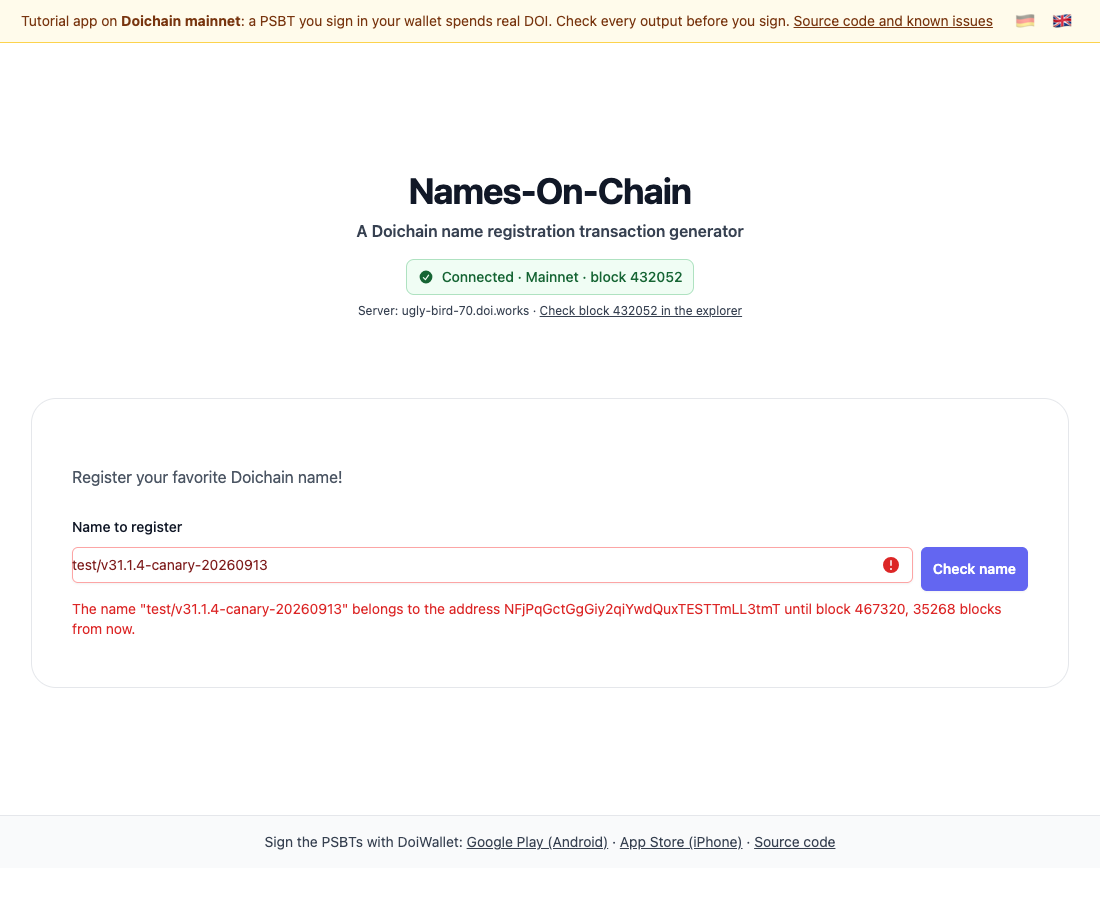
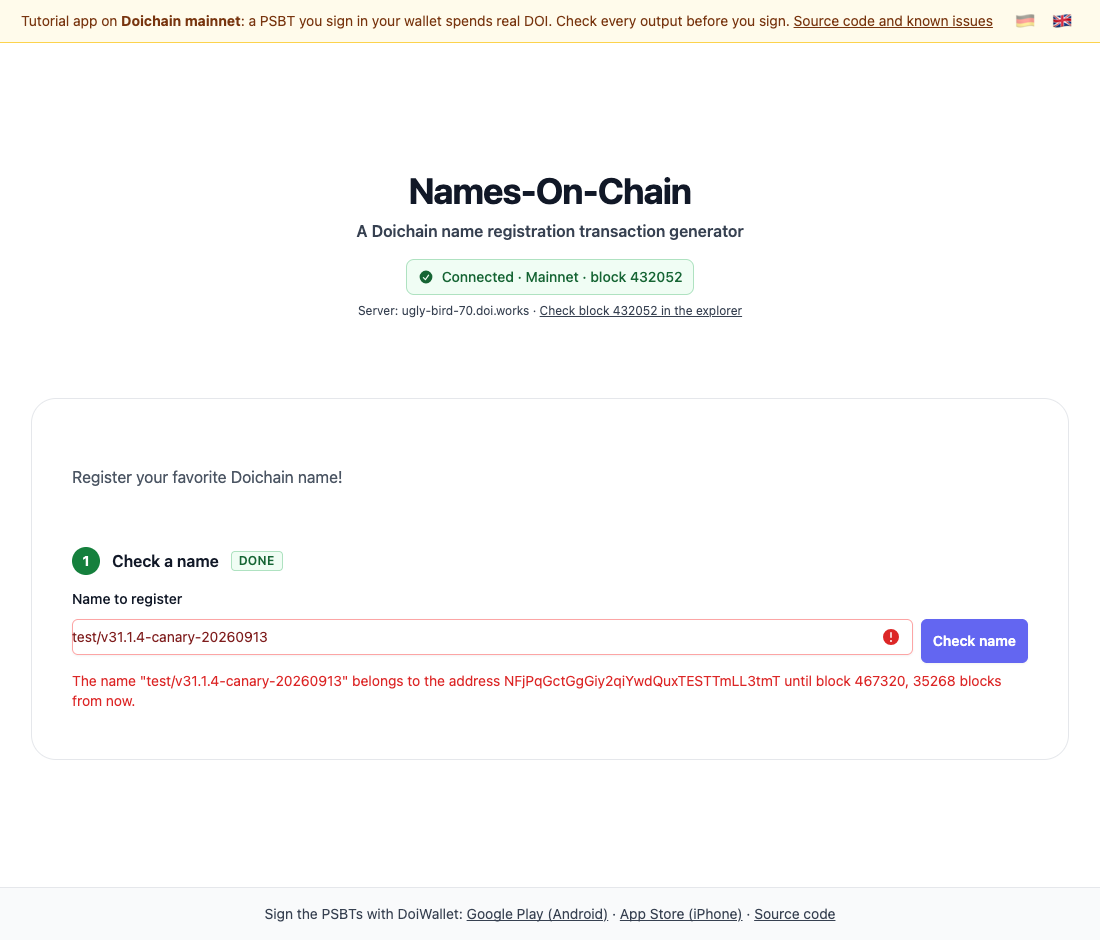
feat: the page counts the steps it asks for
Every field stood on the page at once, and nothing said what comes
first. A numbered step now carries each part of the way, with a mark
saying whether it is answered or the one to do next. Lesson 1 has the
first step; the later lessons add theirs (Doichain/names-on-chain#11).

The fields stay where they are and stay reachable: the steps guide, they
do not lock anything.

diff --git a/src/lib/components/pricing.svelte b/src/lib/components/pricing.svelte
@@ -1,5 +1,6 @@
 <script>
 	import NameField from '$lib/components/NameField.svelte';
+	import Step from '$lib/components/Step.svelte';
 	import ConnectionStatus from '$lib/components/ConnectionStatus.svelte';
 	import { getConnectionStatus } from '../doichain/connectElectrum.js';
 	import { checkName } from '$lib/doichain/nameValidation.js';
@@ -56,6 +57,9 @@
 
 	/** The name in the field has not been asked about yet */
 	$: needsCheck = Boolean(name) && name !== checkedName && !isCheckingName;
+
+	/** The first step is answered once the name in the field has an answer */
+	$: nameStep = name && name === checkedName ? 'done' : 'next';
 
 	/**
 	 * Takes the answer to a check and puts it on screen, if it still belongs to
@@ -125,46 +129,48 @@
 				<p class="mt-6 text-base leading-7 text-gray-600">{$_('name.intro')}</p>
 				{#if isConnected}
 					<p>&nbsp;</p>
-					<NameField
-						bind:value={name}
-						checking={isCheckingName}
-						invalid={!isNameValid}
-						checked={name === checkedName}
-						on:check={checkNow}
-					>
-						<svelte:fragment slot="status">
-							{#if !name}
-								<!-- nothing to say yet -->
-							{:else if isCheckingName}
-								<p class="mt-2 text-sm text-gray-600">
-									{$_('name.checking', { values: { name } })}
-								</p>
-							{:else if needsCheck}
-								<p class="mt-2 text-sm text-gray-700">{$_('name.notChecked')}</p>
-							{:else if !isNameValid}
-								<p class="mt-2 text-sm text-red-600">{nameErrorMessage}</p>
-							{:else}
-								<p class="mt-2 text-sm text-green-700">
-									{$_('name.available', { values: { name } })}
-									{nameNotice}
-								</p>
-								{#if doichainAddress}
-									<p class="mt-1 text-sm text-gray-600">
-										{$_('name.address', { values: { address: doichainAddress } })}
+					<Step number={1} title={$_('steps.name')} state={nameStep}>
+						<NameField
+							bind:value={name}
+							checking={isCheckingName}
+							invalid={!isNameValid}
+							checked={name === checkedName}
+							on:check={checkNow}
+						>
+							<svelte:fragment slot="status">
+								{#if !name}
+									<!-- nothing to say yet -->
+								{:else if isCheckingName}
+									<p class="mt-2 text-sm text-gray-600">
+										{$_('name.checking', { values: { name } })}
+									</p>
+								{:else if needsCheck}
+									<p class="mt-2 text-sm text-gray-700">{$_('name.notChecked')}</p>
+								{:else if !isNameValid}
+									<p class="mt-2 text-sm text-red-600">{nameErrorMessage}</p>
+								{:else}
+									<p class="mt-2 text-sm text-green-700">
+										{$_('name.available', { values: { name } })}
+										{nameNotice}
+									</p>
+									{#if doichainAddress}
+										<p class="mt-1 text-sm text-gray-600">
+											{$_('name.address', { values: { address: doichainAddress } })}
+										</p>
+									{/if}
+								{/if}
+								{#if name && nameBytes.mixesScripts}
+									<p class="mt-2 text-sm text-amber-800">
+										{$_('name.warnings.mixedScripts', { values: { hex: nameBytes.hex } })}
+									</p>
+								{:else if name && !nameBytes.isAscii}
+									<p class="mt-2 text-sm text-amber-800">
+										{$_('name.warnings.nonAscii', { values: { hex: nameBytes.hex } })}
 									</p>
 								{/if}
-							{/if}
-							{#if name && nameBytes.mixesScripts}
-								<p class="mt-2 text-sm text-amber-800">
-									{$_('name.warnings.mixedScripts', { values: { hex: nameBytes.hex } })}
-								</p>
-							{:else if name && !nameBytes.isAscii}
-								<p class="mt-2 text-sm text-amber-800">
-									{$_('name.warnings.nonAscii', { values: { hex: nameBytes.hex } })}
-								</p>
-							{/if}
-						</svelte:fragment>
-					</NameField>
+							</svelte:fragment>
+						</NameField>
+					</Step>
 				{:else}
 					<p class="mt-2 text-sm text-gray-700" id="connection-status">
 						{$_('status.offlineHelp')}

diff --git a/src/lib/components/Step.svelte b/src/lib/components/Step.svelte
@@ -1,0 +1,42 @@
+<script>
+	import { _ } from '$lib/i18n/index.js';
+
+	/** the step's number, shown in front of its title */
+	export let number;
+	/** what this step asks of the reader */
+	export let title;
+	/** 'done' once it is answered, 'next' while it is the one to do, else 'later' */
+	export let state = 'later';
+
+	const RING = {
+		done: 'bg-green-700 text-white',
+		next: 'bg-indigo-600 text-white',
+		later: 'bg-gray-200 text-gray-700'
+	};
+	const CHIP = {
+		done: 'bg-green-50 text-green-800 ring-green-600/30',
+		next: 'bg-indigo-50 text-indigo-800 ring-indigo-600/30'
+	};
+</script>
+
+<section class="mt-8 first:mt-0" aria-labelledby="step-{number}-title">
+	<h3 id="step-{number}-title" class="flex flex-wrap items-center gap-x-3 gap-y-1">
+		<span
+			class="inline-flex h-7 w-7 flex-none items-center justify-center rounded-full text-sm font-bold {RING[
+				state
+			]}"
+			aria-hidden="true">{number}</span
+		>
+		<span class="text-base font-semibold leading-7 text-gray-900">{title}</span>
+		{#if state !== 'later'}
+			<span
+				class="rounded px-2 py-0.5 text-xs font-semibold uppercase tracking-wide ring-1 ring-inset {CHIP[
+					state
+				]}">{$_(`steps.${state}`)}</span
+			>
+		{/if}
+	</h3>
+	<div class="mt-3">
+		<slot />
+	</div>
+</section>

diff --git a/tests/smoke.spec.js b/tests/smoke.spec.js
@@ -22,11 +22,17 @@ test('names chain, block and server, then finds who holds a name', async ({ page
 		`https://doi-explorer.le-space.de/block/${headers.tip.hash}`
 	);
 
+	// the page numbers the steps and says which one is next
+	await expect(page.getByRole('heading', { name: /Check a name/ })).toBeVisible();
+	await expect(page.getByText('next', { exact: true })).toBeVisible();
+
 	// the name reaches a server only on demand
 	await page.getByLabel('Name to register').fill(recorded.name);
 	await expect(page.locator('#name-status')).toContainText('Not checked yet');
 	await page.getByRole('button', { name: 'Check name' }).click();
 	await expect(page.locator('#name-status')).toContainText(recorded.owner);
+	// the step is answered now
+	await expect(page.getByText('done', { exact: true })).toBeVisible();
 	expect(errors).toEqual([]);
 });
 
